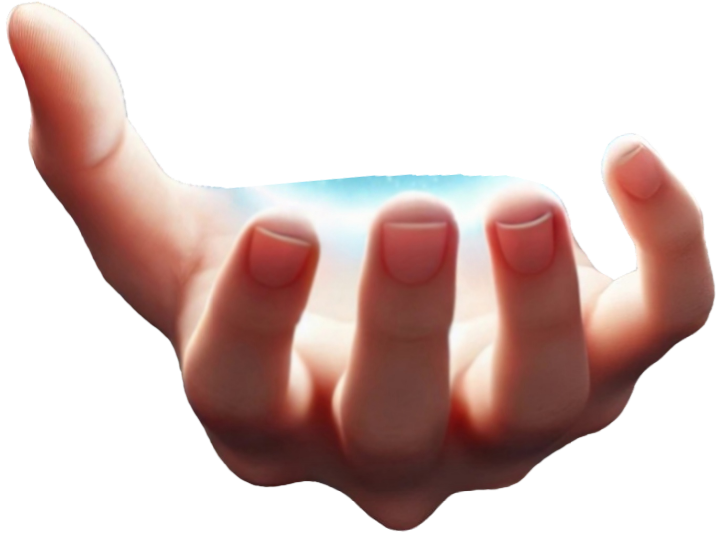
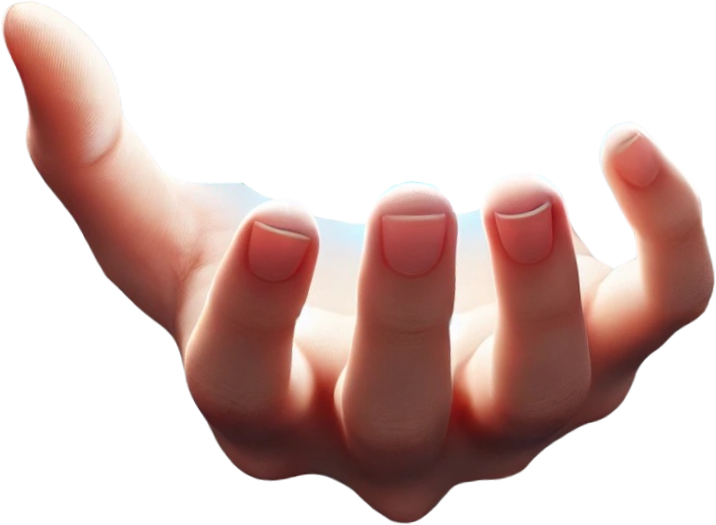
aligning the ball

diff --git a/static/styles.css b/static/styles.css
@@ -91,7 +91,7 @@
 
 /* Title */
 .title-and-logo h1 {
-    margin-right: 15px; /* Add some space between the title and the logo */
+    margin-left: 20px; /* Add some space between the title and the logo */
     font-size: 50px;
     color: white;
 }
@@ -104,22 +104,23 @@
 
 /* Static hand image */
 .hand-image {
-    z-index: 1;
-    height: 55px;
+    z-index: 2;
+    height: 45px;
     position: relative;
+    top: 15px;
 }
 
 
 /* Spinning crystal ball */
 .spinning-ball {
     position: absolute;
-    height: 45px; /* Ensure it matches the hand size */
-    width: 45px;
-    animation: rotation 8s linear infinite; /* Infinite rotation */
+    height: 50px; /* Ensure it matches the hand size */
+    width: 50px;
+    animation: rotation 10s linear infinite; /* Infinite rotation */
     transform-origin: center;
     top: -15px; /* Adjust this to align the ball over the hand */
-    left: 16px;
-    z-index: 2;
+    left: 9px;
+    z-index: 1;
 }
 @keyframes rotation {
     from { transform: rotate(0deg); }
